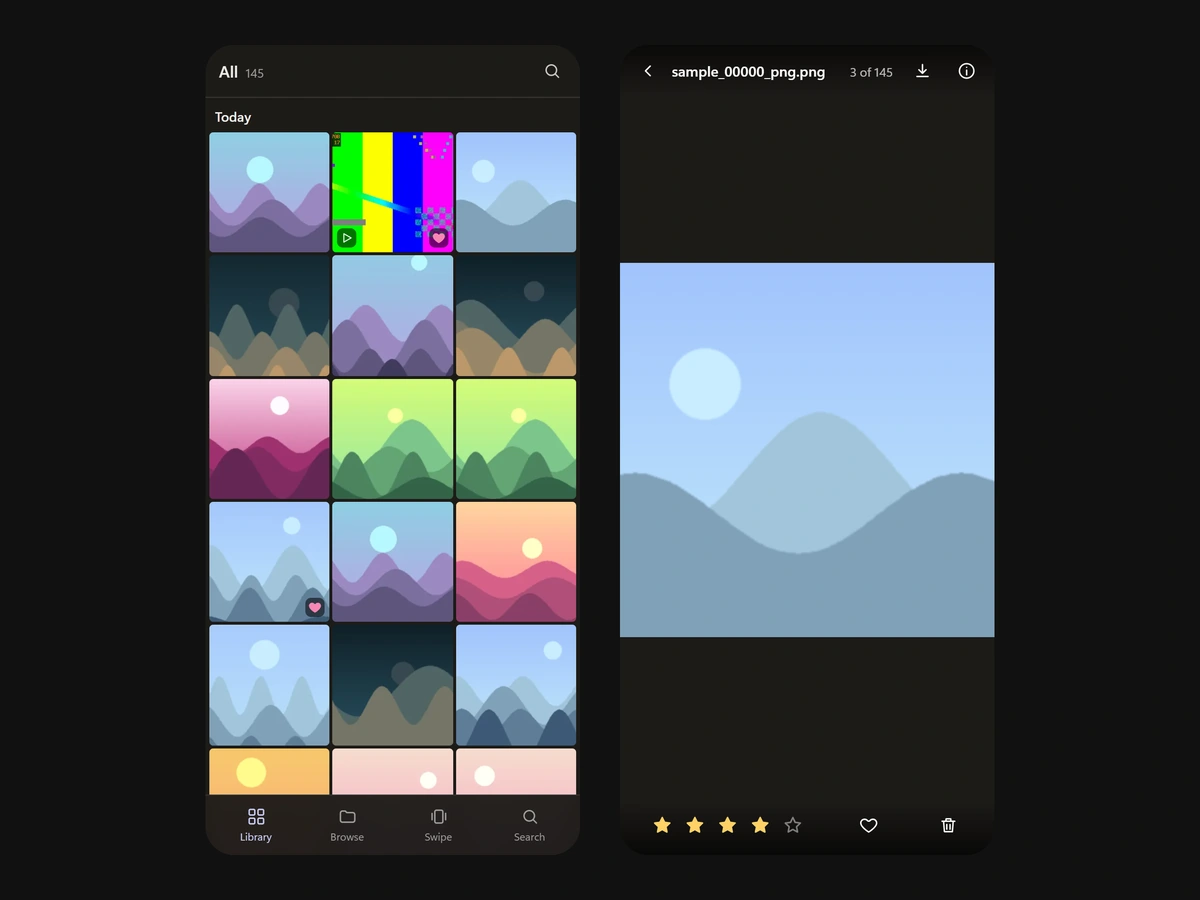
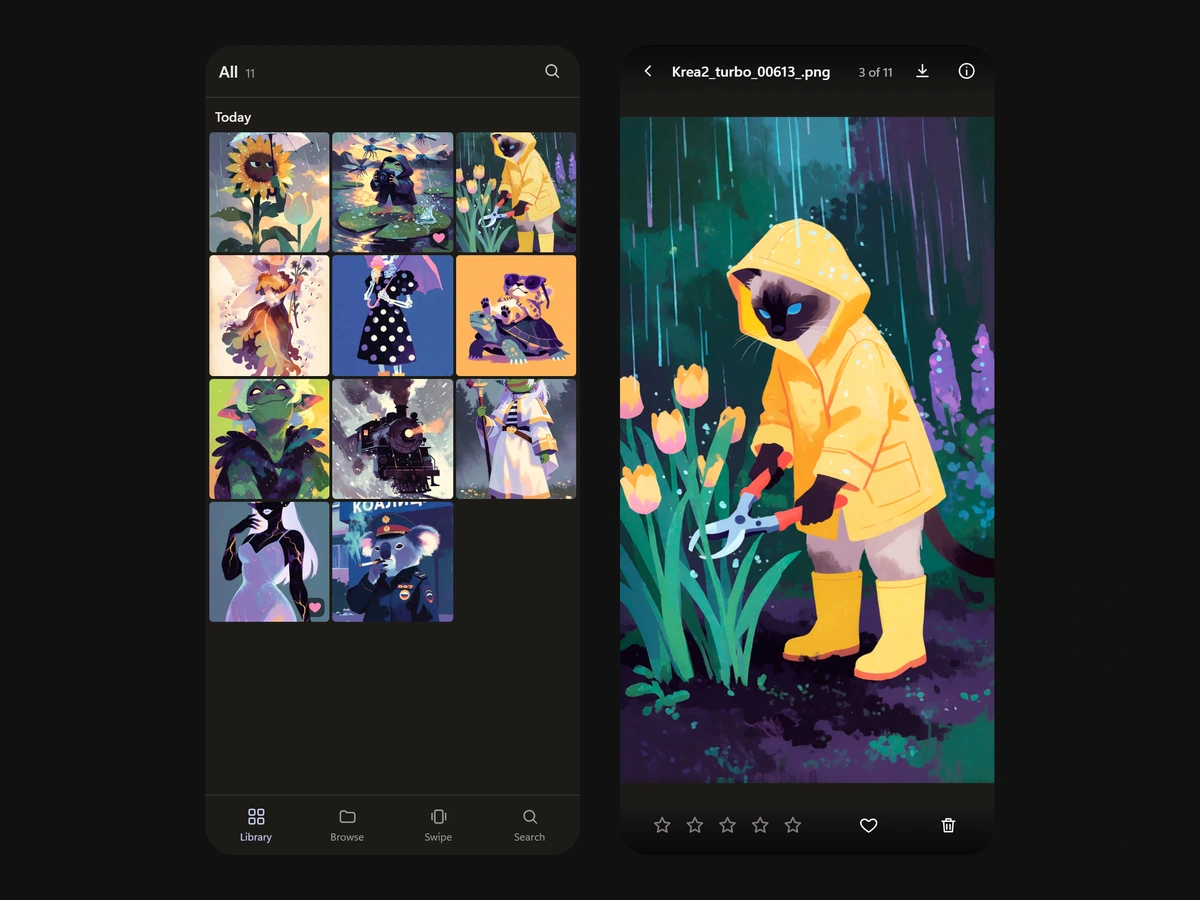
Site: the Gallery's three cards show real Krea2 illustrations

diff --git a/docs/index.html b/docs/index.html
@@ -279,17 +279,17 @@
     <div class="cards">
       <article class="node card">
         <header class="node-head"><span class="dot"></span><h3>Characters</h3><span class="tag">With ComfyUI</span></header>
-        <div class="shot"><img src="site/gallery-review.webp" alt="To review asks: Is Glow in it? One image large, with Yes, Glow and Not Glow under it, and the next ones in a strip." width="1200" height="900" loading="lazy"></div>
+        <div class="shot"><img src="site/gallery-review.webp" alt="To review asks: Is Pip in it? A frog in a raincoat photographing dragonflies in the rain, with Yes, Pip and Not Pip under it, and the next one waiting." width="1200" height="900" loading="lazy"></div>
         <div class="node-body"><p>Give a character its LoRA, trigger words or tags, and the Gallery finds every image it's in; anything uncertain waits in <b>To review</b> for a yes or no. It's the same list Model Librarian's <b>Character Select</b> uses in ComfyUI, kept in step both ways.</p></div>
       </article>
       <article class="node card">
         <header class="node-head"><span class="dot"></span><h3>Phone and tablet</h3><span class="tag">iPhone and Android</span></header>
-        <div class="shot"><img src="site/gallery-phone.webp" alt="The Gallery on a phone: a grid of the day's images with a bar at the bottom, and one image open with its stars, favourite and save buttons." width="1200" height="900" loading="lazy"></div>
+        <div class="shot"><img src="site/gallery-phone.webp" alt="The Gallery on a phone: a grid of the day's illustrations with a bar at the bottom, and a cat in a yellow raincoat open in the viewer with its stars, favourite and save buttons." width="1200" height="900" loading="lazy"></div>
         <div class="node-body"><p>Pair a phone with a QR code and your library goes with you, over Tailscale: swipe through, pinch to zoom, rate and tag, and <b>save any picture to the phone's photos</b>. Add it to the home screen and it opens like an app.</p></div>
       </article>
       <article class="node card">
         <header class="node-head"><span class="dot"></span><h3>Swipe</h3><span class="tag">Mouse, keys or touch</span></header>
-        <div class="shot"><img src="site/gallery-swipe.webp" alt="Swipe: one image large, with stars to rate it, Favourite and Delete under it, and albums to sort it into." width="1200" height="900" loading="lazy"></div>
+        <div class="shot"><img src="site/gallery-swipe.webp" alt="Swipe: a grumpy sunflower under an umbrella in the rain, large, with stars to rate it and Favourite and Delete under it." width="1200" height="900" loading="lazy"></div>
         <div class="node-body"><p>Go through a day's batch one image at a time: left to delete, right to keep, up to favourite, a star to rate it or an album to file it. Your place is remembered for next time.</p></div>
       </article>
     </div>
